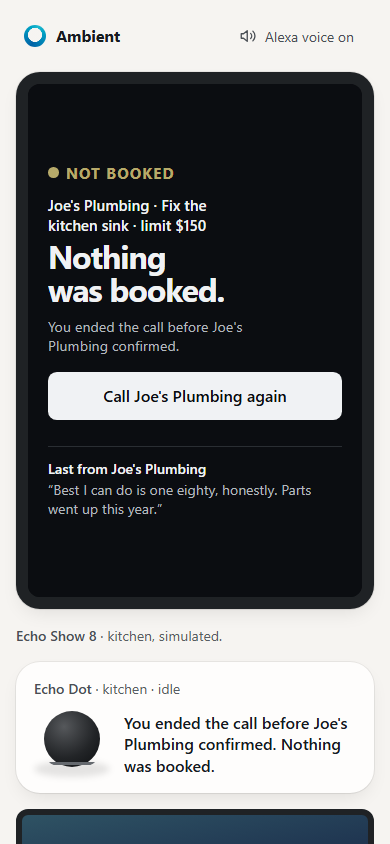
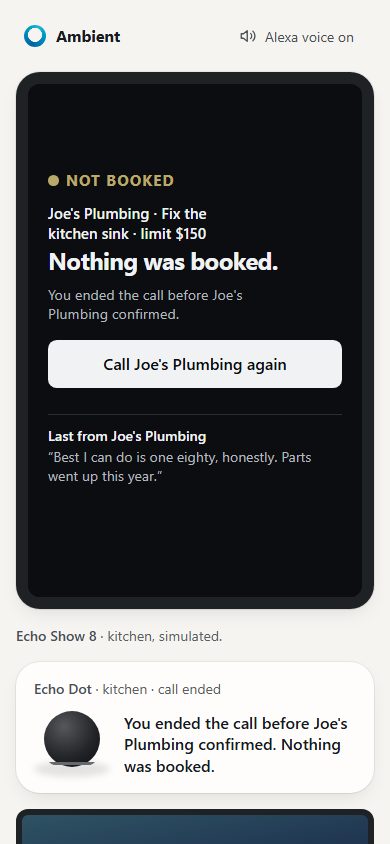
Fix round-17 card polish: footer clearance, date on its own line, TV toast, Dot label, Answer contrast

Changed region(s): [[0.1231, 0.1848, 0.8923, 0.6161], [0.4, 0.8009, 0.5846, 0.8318]]

diff --git a/src/task-view.ts b/src/task-view.ts
@@ -36,7 +36,8 @@ button:focus-visible{outline:2px solid var(--call);outline-offset:3px}
 .clock:empty{display:none}
 .what{font-size:1em;font-weight:600;margin-bottom:-.5em;text-wrap:balance}
 .what:empty{display:none}
-.sep{color:var(--dim)}
+.sep{display:none}
+.when{display:block}
 .check{display:none;width:2.2em;height:2.2em;border-radius:50%;background:var(--done);color:var(--bg);place-items:center}
 .check svg{width:62%;height:62%;fill:none;stroke:currentColor;stroke-width:3.2;stroke-linecap:round;stroke-linejoin:round;stroke-dasharray:24;stroke-dashoffset:0}
 body.booked .chip::before{display:none}
@@ -63,6 +64,8 @@ body.booked .check path{animation:draw 600ms 180ms cubic-bezier(0.2,0,0,1) both}
 .actions button.offer{background:transparent;box-shadow:inset 0 0 0 1.5px oklch(1 0 0 / .4)}
 .actions button.quiet{background:transparent;color:var(--stop);padding:0 .8em;box-shadow:inset 0 0 0 1.5px oklch(0.68 0.20 25 / .45)}
 body[data-state="live"]:not([data-device="tv"]),body[data-state="done"]:not([data-device="tv"]){justify-content:center}
+body[data-state="needs"]:not([data-device="tv"]){justify-content:flex-start}
+@media (min-width:481px){body[data-state="needs"]:not([data-device="tv"]){padding-top:4.5vw;gap:1.5vw}}
 body[data-state="needs"]:not([data-device="tv"]) .actions{display:grid;grid-auto-flow:column;grid-auto-columns:minmax(0,1fr);align-items:stretch}
 body[data-state="needs"] .actions button{padding-inline:.6em;min-height:max(56px,2.9em);min-width:44px}
 .actions button small{display:block;font-size:max(13px,.8em);font-weight:500;text-wrap:balance}
@@ -71,7 +74,7 @@ body[data-state="needs"] .actions button{padding-inline:.6em;min-height:max(56px
 .actions button:active{transform:scale(.97)}
 .hint{font-size:max(15px,.72em);color:oklch(0.86 0.01 255)}
 .hint:empty{display:none}
-.foot{margin-top:1em;display:grid;grid-template-columns:minmax(0,max-content) 1fr;gap:.45em .8em;align-content:start;border-top:1px solid var(--faint);padding-top:.9em;font-size:max(13px,.72em);color:var(--dim)}
+.foot{margin-top:1em;margin-bottom:1.2em;display:grid;grid-template-columns:minmax(0,max-content) 1fr;gap:.45em .8em;align-content:start;border-top:1px solid var(--faint);padding-top:.9em;font-size:max(13px,.72em);color:var(--dim)}
 .foot:empty{display:none}
 .line{display:contents}
 .line b{font-weight:600;color:var(--fg);white-space:nowrap;overflow:hidden;text-overflow:ellipsis}
@@ -79,13 +82,13 @@ body[data-state="needs"] .actions button{padding-inline:.6em;min-height:max(56px
 body[data-device="tv"]{font-size:clamp(12px,6vw,40px);padding:0 7vw;gap:0;justify-content:center}
 body[data-device="tv"] .top,body[data-device="tv"] .what,body[data-device="tv"] .over,body[data-device="tv"] .flag,body[data-device="tv"] .foot,body[data-device="tv"] .sub,body[data-device="tv"] .hint,body[data-device="tv"] .actions{display:none}
 body[data-device="tv"] .stake{font-size:1.15em;line-height:1.3;white-space:nowrap;overflow:hidden;text-overflow:ellipsis}
+body[data-device="tv"] .when,body[data-device="tv"] .sep{display:none}
 body[data-device="tv"] .tvline{display:block}
 .tvline{display:none;font-size:max(15px,.7em);font-weight:650;color:var(--needs);letter-spacing:.02em}
 @media (max-width:480px){
- body:not([data-device="tv"]){font-size:15px;padding:24px 20px;gap:12px;overflow:auto;justify-content:flex-start}
+ body:not([data-device="tv"]){font-size:15px;padding:24px 20px 32px;gap:12px;overflow:auto;justify-content:flex-start}
  body:not([data-device="tv"]) .stake{font-size:2.1em}
- body:not([data-device="tv"]) .sep{display:none}
- body:not([data-device="tv"]) .when{display:block}
+ body:not([data-device="tv"]) .stake.long{font-size:1.6em}
  body:not([data-device="tv"]) .over{margin-top:-.2em}
  body:not([data-device="tv"]) .flag{font-size:13px;margin-top:-.2em}
  body:not([data-device="tv"]) .actions{flex-direction:column;align-items:stretch;gap:8px}

diff --git a/web/sim/index.html b/web/sim/index.html
@@ -368,7 +368,7 @@ function render() {
 
   const ring = !t ? "idle" : ap ? "needs" : o?.kind === "confirmed" ? "done" : live() ? "working" : "idle";
   $("speaker").dataset.ring = ring;
-  $("ringstate").textContent = { idle: "idle", working: connected ? "Ambient is on the phone" : "Ambient is calling", needs: "the call needs you", done: "booked" }[ring];
+  $("ringstate").textContent = { idle: out.classList.contains("show") ? "call ended" : "idle", working: connected ? "Ambient is on the phone" : "Ambient is calling", needs: "the call needs you", done: "booked" }[ring];
 
   if (connected && phase === "live" && !state.pickedUp) { state.pickedUp = true; speak(`${biz} picked up. I'm on the call.`); }
   if (ap) {

diff --git a/web/call/index.html b/web/call/index.html
@@ -13,7 +13,7 @@
   --ink-3:oklch(0.68 0.01 250);
   --line:oklch(0.32 0.012 250);
   --ai:oklch(0.80 0.11 225);
-  --answer:oklch(0.62 0.17 150);
+  --answer:oklch(0.535 0.15 150);
   --end:oklch(0.58 0.21 27);
 }
 *{box-sizing:border-box;margin:0}
